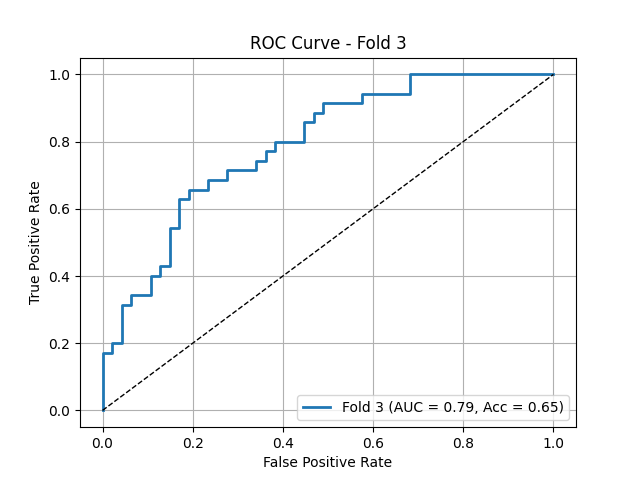
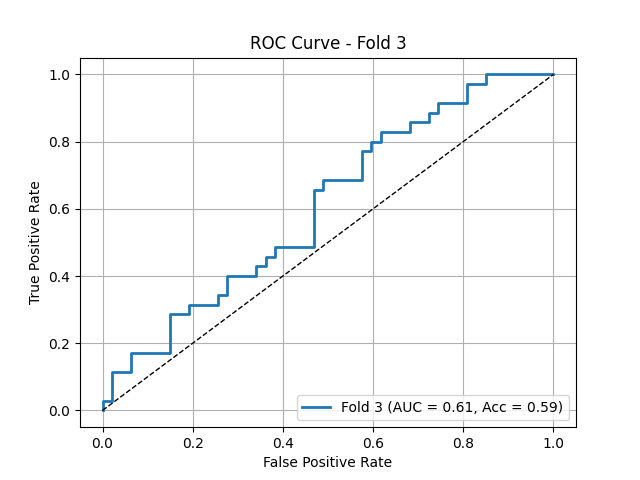
shift, elastic,grid,gauss,bctrast

diff --git a/dataset_washu2.py b/dataset_washu2.py
@@ -82,14 +82,12 @@ train_transform = A.Compose([
     A.RandomRotate90(p=0.5),
 
 	A.ShiftScaleRotate(shift_limit=0.005, scale_limit=0.005, rotate_limit=10, border_mode=0, value=0, p=0.5), 
-    #A.ElasticTransform(alpha = 1, sigma = 50, p=0.8),
+    A.ElasticTransform(alpha = 1, sigma = 150, p=0.5),
     A.GridDistortion(distort_limit=(-0.1,0.1), p=0.5),
 	A.GaussNoise(std_range=(0.02, 0.044), p=1),
     A.RandomBrightnessContrast(brightness_limit=(0, 0.01), contrast_limit=(0, 0.01), p=0.5),
     # #A.CLAHE(clip_limit=.5, tile_grid_size=(8, 8), p=0.5),
     # A.Downscale(scale_range=(0.8,0.99), p=0.5),
-	
-
     A.Normalize(mean=(0.5,), std=(0.5,)),  # Adjust if using RGB
     ToTensorV2()
 ])
